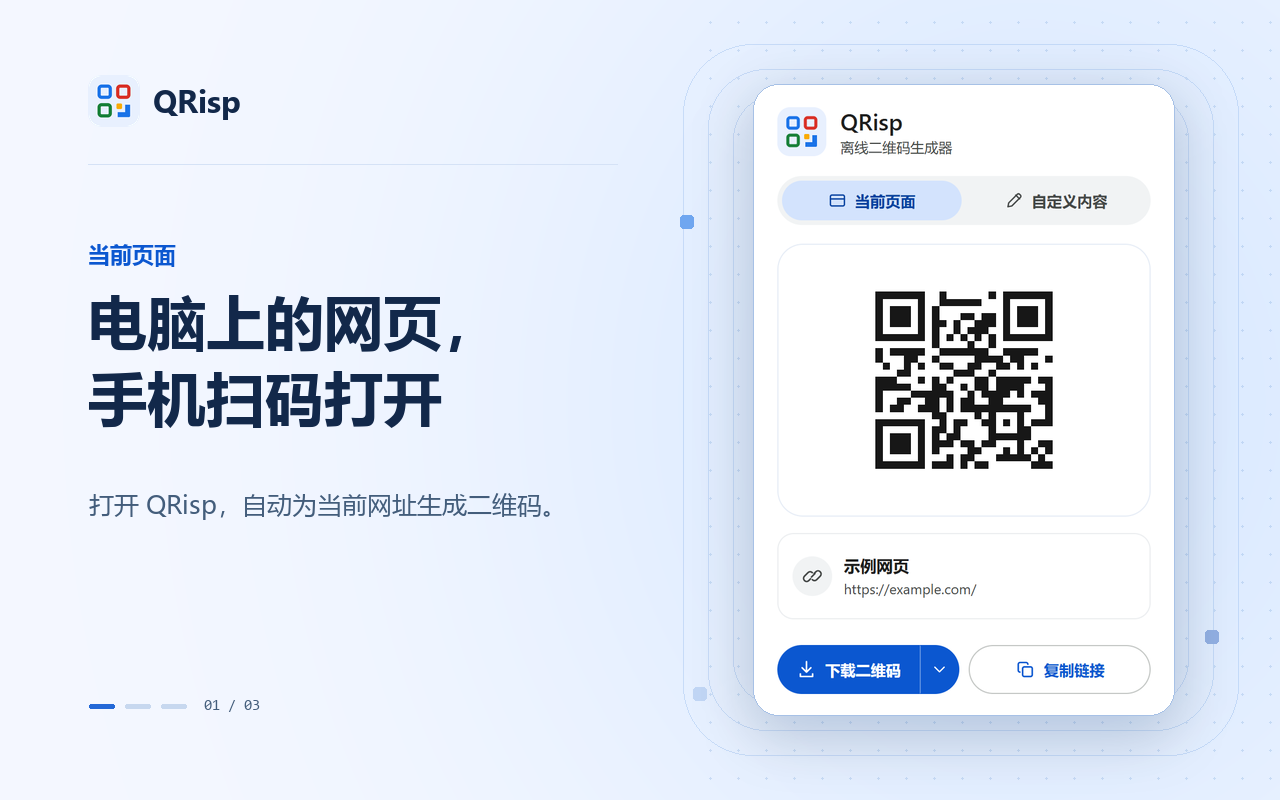
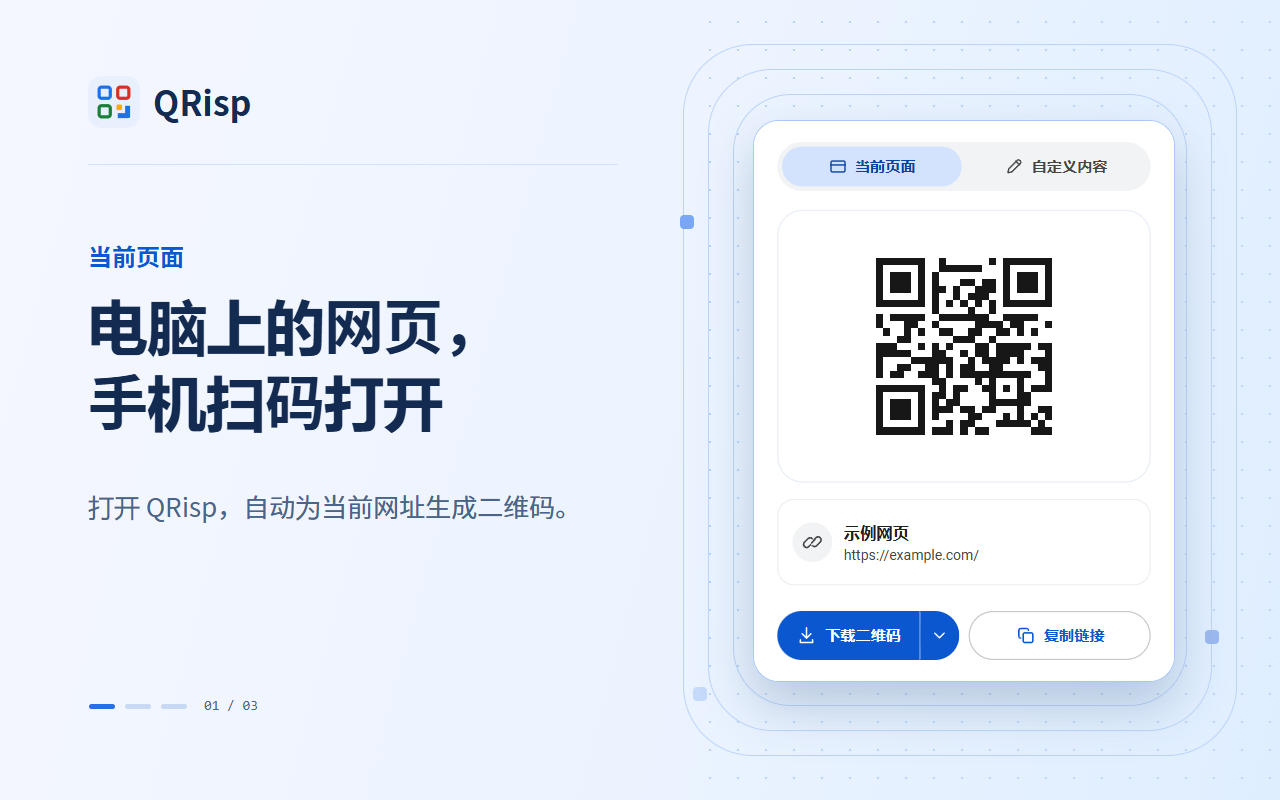
delete Top info

diff --git a/popup.html b/popup.html
@@ -8,14 +8,6 @@
 </head>
 <body>
   <main>
-    <header>
-      <img src="assets/logo.svg" width="42" height="42" alt="">
-      <div>
-        <h1>QRisp</h1>
-        <p>离线二维码生成器</p>
-      </div>
-    </header>
-
     <div class="tabs" role="tablist" aria-label="内容来源">
       <button id="page-tab" type="button" role="tab" aria-selected="true" aria-controls="page-panel">
         <svg class="icon" width="16" height="16" viewBox="0 0 24 24" aria-hidden="true">

diff --git a/store-listing/privacy-policy.html b/store-listing/privacy-policy.html
@@ -21,7 +21,7 @@
   <main>
     <h1>QRisp 隐私政策</h1>
     <p class="updated">更新于 <time datetime="2026-11-06">2026 年 11 月 6 日</time></p>
-    <p>QRisp 是一款离线二维码生成扩展。本政策说明 QRisp 1.0.0 如何处理网页信息和用户输入。</p>
+    <p>QRisp 是一款离线二维码生成扩展。本政策说明 QRisp 1.0.1 如何处理网页信息和用户输入。</p>
 
     <h2>处理的信息与用途</h2>
     <ul>

diff --git a/popup.css b/popup.css
@@ -31,27 +31,6 @@ main {
   padding: 18px 20px;
 }
 
-header {
-  display: flex;
-  align-items: center;
-  gap: 12px;
-  margin-bottom: 16px;
-}
-
-h1 {
-  margin: 0;
-  font-size: 20px;
-  font-weight: 600;
-  line-height: 26px;
-}
-
-header p {
-  margin: 0;
-  color: var(--muted);
-  font-size: 12px;
-  line-height: 18px;
-}
-
 button {
   display: inline-flex;
   align-items: center;
